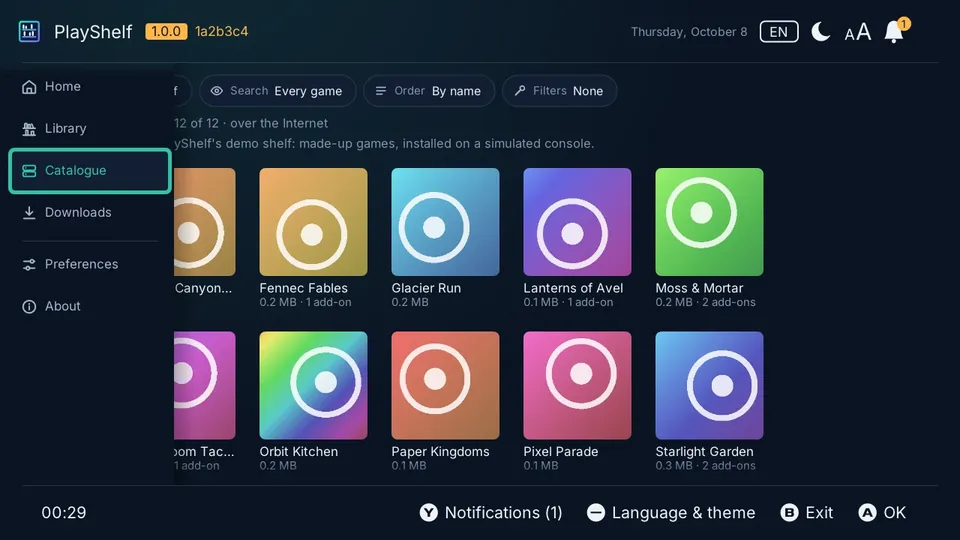
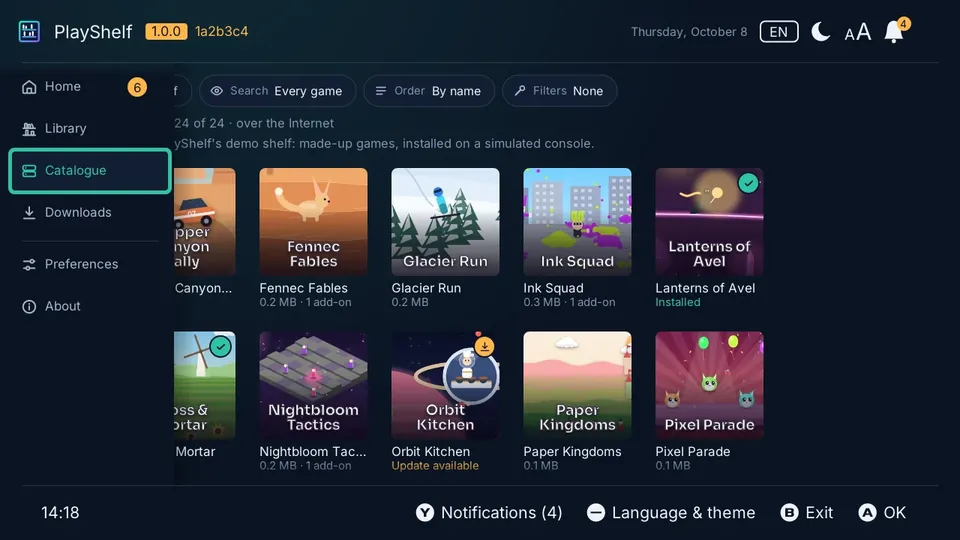
fix(site): the home page and the READMEs caught up with the projects (#18)
The home page's cards say what the projects are today: Cadran is Aurore's only look, PlayGuard's guide is in fifteen languages and PlayShelf's in English and French, Aurore has a demo rather than a simulator. PlayShelf's capture is taken again now that its demo's games have key art. The site's README says what versions.json is for, and the branding README which projects keep a copy of their banner.

diff --git a/site/README.md b/site/README.md
@@ -8,13 +8,13 @@ A first visit to the root goes to the browser's language when the site has it (C
 
 `tools/build_site.py <out-dir>` (Python 3, nothing to install) writes the pages:
 
-- `template.html`: the page around the content (head, header, footer). Its aurora (`hero.html` under it) is `canvas#sky`, drawn by `assets/site.js` at 30 frames a second, and not at all while it is scrolled out of view; without script, or with less motion asked, `assets/site.css`'s gradient or a still frame stands in. The name opens a menu of Boréale's four sites, its own leading home (`switcher()` in `tools/build_site.py`, a popover the browser closes on Esc or a click elsewhere): its CSS and script are the "site switcher" blocks of `site.css` and `site.js`, copied as they are into PlayGuard's, PlayShelf's and Aurore's sites, this one the reference.
+- `template.html`: the page around the content (head, header, footer). Its aurora (`hero.html` under it) is `canvas#sky`, drawn by `assets/site.js` at 30 frames a second, and not at all while it is scrolled out of view; without script, or with less motion asked, `assets/site.css`'s gradient or a still frame stands in. The name opens a menu of Boréale's four sites, each project with its latest release, its own leading home (`switcher()` in `tools/build_site.py`, a popover the browser closes on Esc or a click elsewhere): its CSS and script are the "site switcher" blocks of `site.css` and `site.js`, copied as they are into PlayGuard's, PlayShelf's and Aurore's sites, this one the reference.
 - `home.html` and `hero.html`: the home page, each project's card with a capture of it (`assets/shots/`), a link to its simulator or demo and one to its code; `legal.html`: `legal/`, the privacy and legal notice (what the site counts, who publishes it, who hosts it), written in French: each other language's says under its lede that it is a translation and that the French text prevails, with a link to it (`legal_translation`, which `fr.json` alone has not); `lost.html`: `404.html` in each language, kept out of search engines. GitHub Pages serves the root's at any address; it sends a visitor to another language's when the address is in its folder (`/de/...`), or it was chosen, or the browser prefers it (`assets/lang.js`).
 - **The home page's showcase** (site.css's and site.js's "showcase" blocks, the same in PlayGuard's, PlayShelf's and Aurore's sites, adapted to each one's markup): the night going on down the page (veils of aurora, faint stars, a horizon over the footer); the projects' cards, larger, their parts on the same rows (a subgrid), lifting under the pointer, their edge lit where it is and the project's mark glowing; the latest releases as a timeline (still a list: the dates beside a line of aurora, a dot on it for each release); the sections rising into view once; a short cross-fade from one page to the next where the browser can. Without script, or with less motion asked, everything stays in place.
 - `i18n/<language>.json`: each `{{key}}`'s text, one catalog per language, fifteen (`en.json` the reference; `fr-CA.json`, `es-419.json`, `pt-BR.json`, `zh-Hans.json`, `zh-Hant.json` by the apps' codes). The names of screens and features are the apps' own (PlayGuard's, PlayShelf's and Aurore's catalogs), the menu of Boréale's sites' texts PlayGuard's site's word for word; each language's typography (French spaces before `:` and, in France, `;` `?` `!`; «» in Russian; „“ in German; CJK punctuation). Chinese, Japanese and Korean lines break as each script wants (site.css: Japanese between phrases, Korean between words, Chinese never before a punctuation mark, its titles where the catalog's `<wbr>` says). The fonts have only Latin letters: the other scripts are drawn by the system's. A release's date is written as each language does (`MONTHS`, `DATES`); its lede, in English, is on the English pages only.
 - The projects' links are in `build_site.py` (`PROJECTS`): PlayGuard at `guard.boreale.dev`, PlayShelf at `shelf.boreale.dev`, Aurore at `aurore.boreale.dev`, each in the same language folder as the page (the four sites share the fifteen folders), with their simulators in the page's language (`?lang=`, the apps' codes) and Aurore's demo in it where its menu has it (`DEMO_LANGUAGES`; else the browser's).
 - `assets/shots/`: one capture per project, 960×540 WebP, each in its dark theme as the site is: PlayGuard's `images/screenshots/dashboard.png` and Aurore's `.github/readme/cadran.png` (its demo's Welcome tab) from their repositories, scaled down, PlayShelf's catalogue from its site (`assets/images/screenshots/en-US/catalogue-dark.webp` at shelf.boreale.dev, made by its `tools/site_screenshots.py`; the one in its repository is the light theme). Made-up games only.
-- **The projects' releases**, read from GitHub's API at each build: the latest version on each card, the five latest releases on the home page, the last twenty in `feed.atom`, each with its lede (the first paragraph of its notes that is only text; on the English pages only, the notes being in English); a project without a release says so on its card. `GITHUB_TOKEN` lifts the API's anonymous limit; `SITE_OFFLINE=1` builds without them (no version, no releases section); `SITE_STRICT=1` fails when they cannot be read rather than build without them (main's workflow).
+- **The projects' releases**, read from GitHub's API at each build: the latest version on each card, the five latest releases on the home page, the last twenty in `feed.atom`, the latest version of each in `versions.json` (which PlayGuard's, PlayShelf's and Aurore's sites read at their build, for their menu of Boréale's sites), each with its lede (the first paragraph of its notes that is only text; on the English pages only, the notes being in English); a project without a release says so on its card. `GITHUB_TOKEN` lifts the API's anonymous limit; `SITE_OFFLINE=1` builds without them (no version, no releases section); `SITE_STRICT=1` fails when they cannot be read rather than build without them (main's workflow).
 - **For search engines**: schema.org data on each page (Boréale, its site, each project and its latest version), each page's languages (`hreflang`, in the pages and in `sitemap.xml`), `robots.txt`, the social preview with its locales; `manifest.webmanifest` and `favicon.ico` (written by `tools/export-branding.mjs`) for browsers.
 - `assets/`: the CSS, the script, the marks, the icons, the social preview and the fonts (SIL Open Font License; the flags' CC-BY 4.0), served with the site so that no visitor's browser loads anything from anyone else.
 - **The audience**, counted by Umami Cloud (<https://cloud.umami.is>): `assets/umami.js` is its tracker, served with the site, that sends each page seen to `gateway.umami.is`, without cookie, and only from `boreale.dev` (not from a preview or a local copy). It is a copy: take it again from <https://cloud.umami.is/script.js> when Umami changes it.

diff --git a/branding/README.md b/branding/README.md
@@ -22,7 +22,7 @@ Every mark follows one rule, set by PlayGuard's and PlayShelf's: **a frame in th
 | `aurore-mark.svg` | Aurore's mark, drawn after its app icon: the frame, an aurora over the mountains | Aurore's card, its site |
 | `social-preview.svg` | The night, the aurora, the mark, the name, the tagline | Shared links, GitHub's social preview |
 
-`banners/` holds each project's README banner, all from one template (`python3 tools/make_banners.py`): the night, the aurora, the project's mark, its name, what it does, and "by Boréale" with the mark in a corner.
+`banners/` holds each project's README banner, all from one template (`python3 tools/make_banners.py`): the night, the aurora, the project's mark, its name, what it does, and "by Boréale" with the mark in a corner. PlayGuard and PlayShelf keep a copy of theirs in their own `branding/`, rendered for their README at twice the size; Aurore's README keeps a banner of its own.
 
 `png/` holds them rendered (`node tools/export-branding.mjs`, which also writes the site's icons and preview).
 
